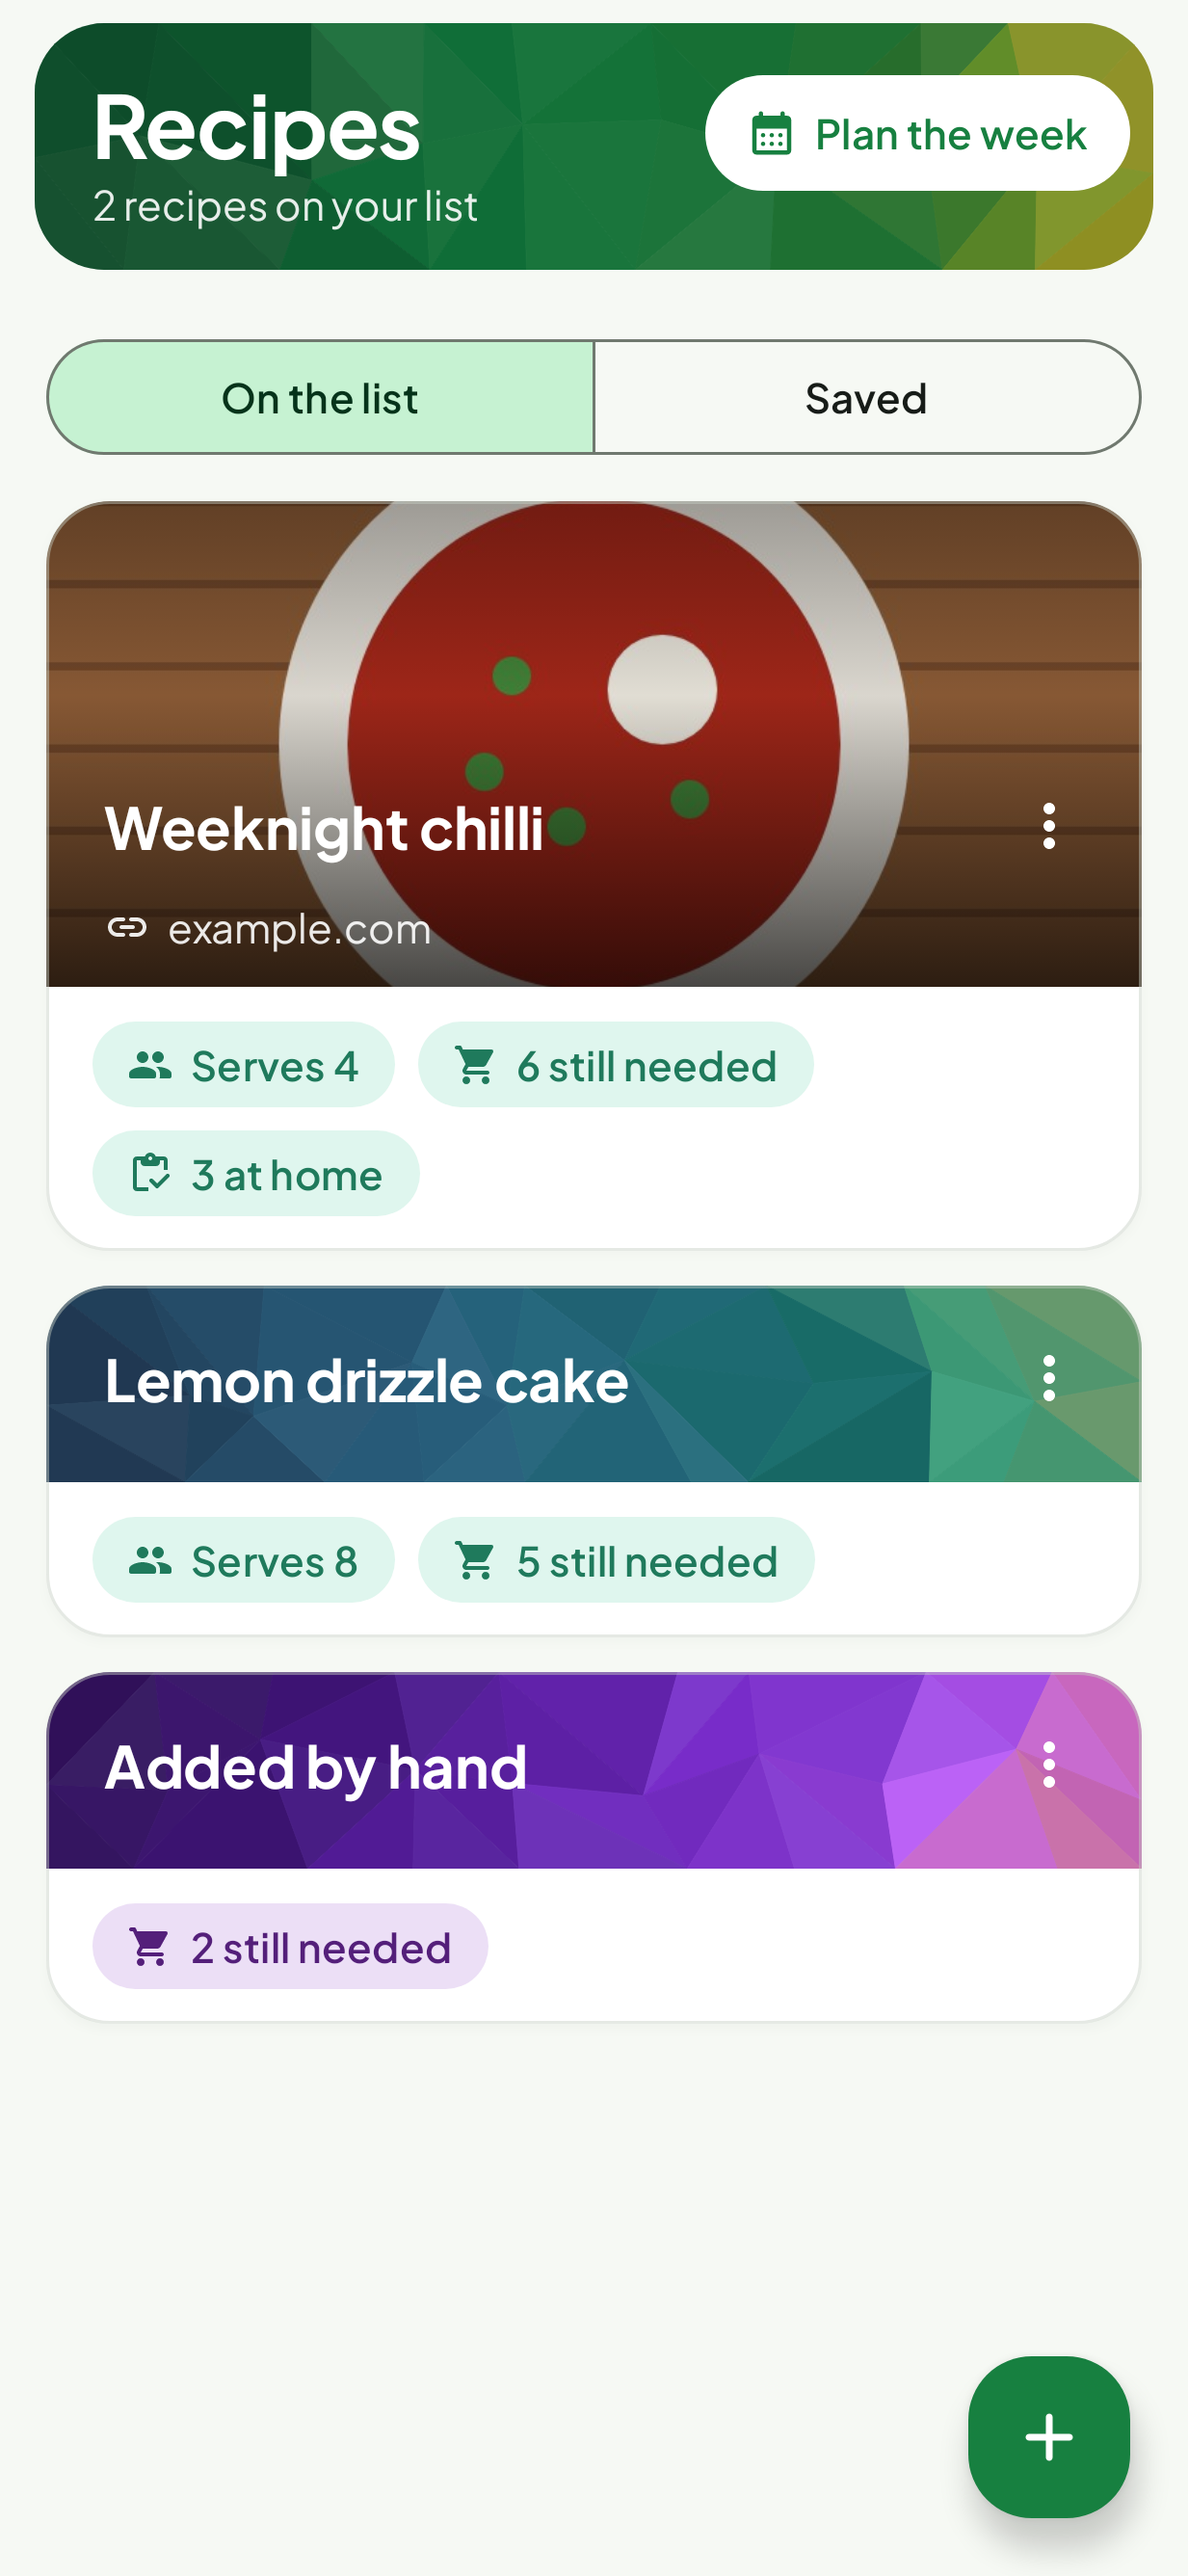
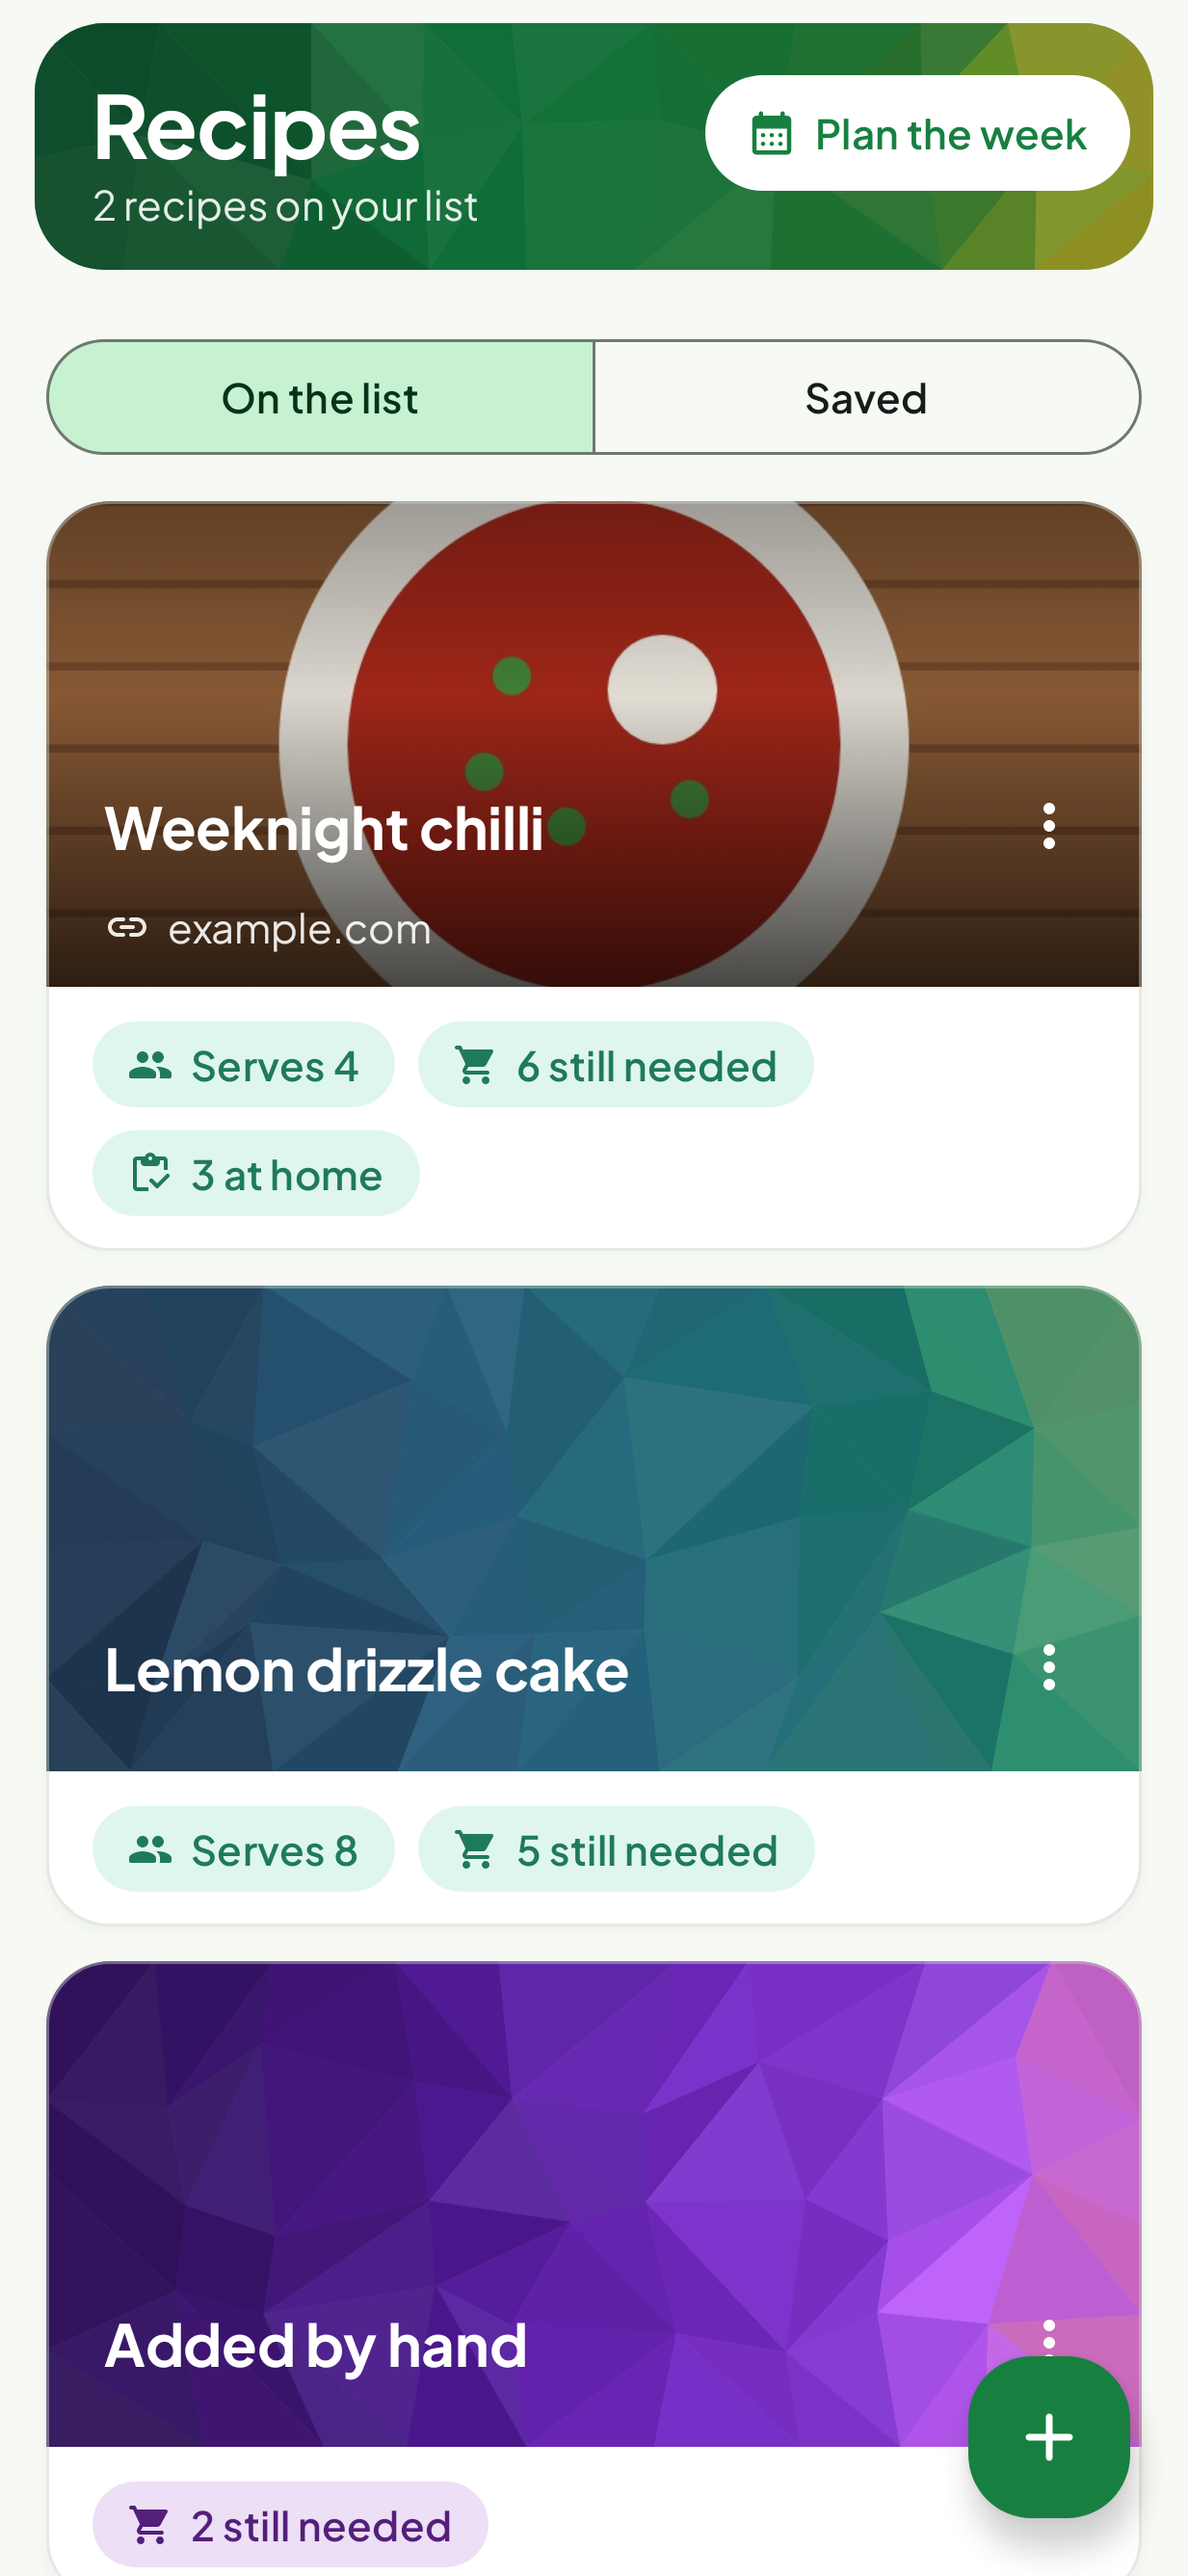
[X.2] Mosaic bands as tall as photos; lime juice typed in is limes
Claude-Session: https://claude.ai/code/session_016z2Qp5Lw5mkgJm6Jzuit5a

diff --git a/android/app/src/test/java/com/robert4lyf/hypershop/ui/recipes/RecipesScreenTest.kt b/android/app/src/test/java/com/robert4lyf/hypershop/ui/recipes/RecipesScreenTest.kt
@@ -22,7 +22,6 @@ import androidx.compose.ui.test.performClick
 import androidx.compose.ui.test.performScrollToNode
 import androidx.compose.ui.test.performTextInput
 import androidx.compose.ui.test.performTextReplacement
-import androidx.compose.ui.unit.dp
 import androidx.test.ext.junit.runners.AndroidJUnit4
 import com.github.takahirom.roborazzi.captureRoboImage
 import com.robert4lyf.hypershop.core.merge.UseProgress
@@ -31,7 +30,6 @@ import com.robert4lyf.hypershop.testutil.Shots
 import com.robert4lyf.hypershop.testutil.TestPhotos
 import com.robert4lyf.hypershop.ui.theme.HyperShopTheme
 import org.junit.Assert.assertEquals
-import org.junit.Assert.assertTrue
 import org.junit.Rule
 import org.junit.Test
 import org.junit.runner.RunWith
@@ -294,17 +292,15 @@ class RecipesScreenTest {
     }
 
     @Test
-    fun aRecipesPhotoIsItsBandOnBothTabs() {
+    fun aRecipeWithoutAPhotoHasABandAsTallAsOneWith() {
         show()
-        // On the list: the chilli, which has a photo, gets a tall band; the cake keeps its mosaic strip.
-        val withPhoto = compose.onNodeWithTag("use-1").getUnclippedBoundsInRoot()
-        val without = compose.onNodeWithTag("use-2").getUnclippedBoundsInRoot()
-        assertTrue((withPhoto.bottom - withPhoto.top) - (without.bottom - without.top) > 60.dp)
+
+        // On the list: the chilli's photo and the cake's mosaic make bands of one height.
+        fun height(tag: String) = compose.onNodeWithTag(tag, useUnmergedTree = true).getUnclippedBoundsInRoot().let { it.bottom - it.top }
+        assertEquals(height("use-band-1").value, height("use-band-2").value, 1f)
         // Saved: the same.
         compose.onNodeWithTag("view-library").performClick()
-        val saved = compose.onNodeWithTag("lib-r:1").getUnclippedBoundsInRoot()
-        val plain = compose.onNodeWithTag("lib-r:9").getUnclippedBoundsInRoot()
-        assertTrue((saved.bottom - saved.top) - (plain.bottom - plain.top) > 60.dp)
+        assertEquals(height("lib-band-r:1").value, height("lib-band-r:9").value, 1f)
     }
 
     @Test

diff --git a/android/app/src/main/java/com/robert4lyf/hypershop/ui/list/ListViewModel.kt b/android/app/src/main/java/com/robert4lyf/hypershop/ui/list/ListViewModel.kt
@@ -617,7 +617,7 @@ class ListViewModel(
         viewModelScope.launch {
             val lines = text.split('\n').map { it.trim() }.filter { it.isNotEmpty() }
             if (lines.size == 1) {
-                val p = c.ruleParser.parse(lines.single())
+                val p = typed(lines.single())
                 val existing = lastList.itemByKey(c.repository.target(p.name).mergeKey)
                 if (existing != null) {
                     val amount = amountOf(p)
@@ -636,18 +636,24 @@ class ListViewModel(
             if (lines.size > 1) messages.send(UiMessage("Added ${lines.size} items"))
         }
 
+    /**
+     * A typed line read as a recipe's would be on its way to the list: "lime juice" is limes (V.2), whoever
+     * typed it, unless it says it comes in a bottle.
+     */
+    private fun typed(line: String) = c.repository.merger.juiceAsFruit(c.ruleParser.parse(line), UnitLocale.METRIC)
+
     private suspend fun addLine(line: String) {
-        val p = c.ruleParser.parse(line)
+        val p = typed(line)
         if (p.name.isBlank()) return
         c.repository.manualAdd(p.name, p.shopBase(UnitLocale.METRIC), p.shopUnit)
     }
 
     /** "Add 1 more" tapped: the typed amount (or one more) goes on as a manual contribution. */
     private suspend fun addMore(line: String) {
-        val parsed = c.ruleParser.parse(line)
+        val parsed = typed(line)
         // As a typed add would: grams over spoons, the top of a range; one more when no amount was typed.
-        val typed = parsed.shopBase(UnitLocale.METRIC)
-        val q = if (parsed.quantity == null || typed.isPresence) QtyBase.of(Rational.ONE, null, UnitLocale.METRIC) else typed
+        val amount = parsed.shopBase(UnitLocale.METRIC)
+        val q = if (parsed.quantity == null || amount.isPresence) QtyBase.of(Rational.ONE, null, UnitLocale.METRIC) else amount
         c.repository.manualAdd(parsed.name, q, parsed.shopUnit.takeIf { parsed.quantity != null })
     }
 

diff --git a/android/app/src/main/java/com/robert4lyf/hypershop/ui/recipes/RecipesRoute.kt b/android/app/src/main/java/com/robert4lyf/hypershop/ui/recipes/RecipesRoute.kt
@@ -547,12 +547,8 @@ private fun LibraryCard(
         color = MaterialTheme.colorScheme.card,
     ) {
         Column {
-            // The recipe's band, as on its card on the list: its photo, tall, else its own mosaic.
-            Box(
-                Modifier.fillMaxWidth().then(
-                    if (row.photo != null) Modifier.heightIn(min = PHOTO_BAND) else Modifier,
-                ).clipToBounds(),
-            ) {
+            // The recipe's band, as on its card on the list: its photo, else its own mosaic, the same height either way.
+            Box(Modifier.fillMaxWidth().heightIn(min = PHOTO_BAND).clipToBounds().testTag("lib-band-${row.key}")) {
                 RecipeBackdrop(row.title, row.photo, Modifier.matchParentSize())
                 Text(
                     row.title,
@@ -642,13 +638,9 @@ private fun UseCard(
         val dark = LocalDarkTheme.current
         val hue = Brand.recipeHue(use.title)
         Column {
-            // The recipe's band: its photo, tall, with the title along the bottom; else its own mosaic,
-            // the same as its review screen's.
-            Box(
-                Modifier.fillMaxWidth().then(
-                    if (photo != null) Modifier.heightIn(min = PHOTO_BAND) else Modifier,
-                ).clipToBounds(),
-            ) {
+            // The recipe's band: its photo, else its own mosaic (the same as its review screen's), the same
+            // height either way, with the title along the bottom.
+            Box(Modifier.fillMaxWidth().heightIn(min = PHOTO_BAND).clipToBounds().testTag("use-band-${use.useId}")) {
                 RecipeBackdrop(use.title, photo, Modifier.matchParentSize())
                 Column(
                     Modifier.align(Alignment.BottomStart).padding(start = 20.dp, end = 8.dp, top = 8.dp, bottom = 12.dp),

diff --git a/android/app/src/test/java/com/robert4lyf/hypershop/ui/list/ListViewModelTest.kt b/android/app/src/test/java/com/robert4lyf/hypershop/ui/list/ListViewModelTest.kt
@@ -212,6 +212,17 @@ class ListViewModelTest {
     }
 
     @Test
+    fun limeJuiceTypedInIsLimesUnlessItSaysBottled() {
+        val c = TestContainer.create()
+        val vm = tracked(ListViewModel(c))
+        await(vm.ui) { it.isEmpty }
+        vm.addTyped("4 tbsp lime juice")
+        assertEquals("2 limes", await(vm.ui) { it.aisles.isNotEmpty() }.row("lime").main)
+        vm.addTyped("bottled lemon juice")
+        await(vm.ui) { u -> u.aisles.flatMap { it.second }.size == 2 }
+    }
+
+    @Test
     fun suggestionsSkipTheAmountAndKeepItWhenPicked() {
         val c = TestContainer.create()
         val vm = tracked(ListViewModel(c))

diff --git a/PROGRESS.md b/PROGRESS.md
@@ -263,3 +263,4 @@ Run 2 stops here. The yes/no checks (install, probe, sync, offline, memory, glan
 ## Step X — from real use, again
 
 - [x] X.1 Units checked against how things are bought. Nutella had no catalogue row, so it kept the recipe's cups as ml: new `chocolate_spread` (Nutella, chocolate hazelnut spread; by weight, 1 × 400 g jar, 296 g a cup from the label's 2 tbsp = 37 g), so "½ cup Nutella" reads 160 g (spoons stay spoons, as everywhere). Jam was a count, unlike honey and peanut butter: now one jar with the amount beside it. The review rows and the "at home" rows used the old amount while the list used W.2's buying unit, so "200g bananas" read 200 g on review and 2 on the list: both now go through `Display.brief`, the list row's own answer. Audit of the rest: every thing bought by the each is a count; the volume rows are milks, creams, stocks and juices. Saved recipes show their lines as written, by design — check: `DisplayBuyTest`, `ReviewRowSheetTest`
+- [x] X.2 A recipe without a photo has a band as tall as one with (its mosaic), on Your list and Saved, so the cards line up — check: `RecipesScreenTest.aRecipeWithoutAPhotoHasABandAsTallAsOneWith`. Lime juice typed into the list by hand ("4 tbsp lime juice") went on as a bottle: a typed line now goes through the same juice-as-fruit step as a recipe's (2 limes; "bottled" still a bottle) — check: `ListViewModelTest.limeJuiceTypedInIsLimesUnlessItSaysBottled`. A lime juice row already on a list, or in Buy again's history from before V.2, stays as it is until it is added again
